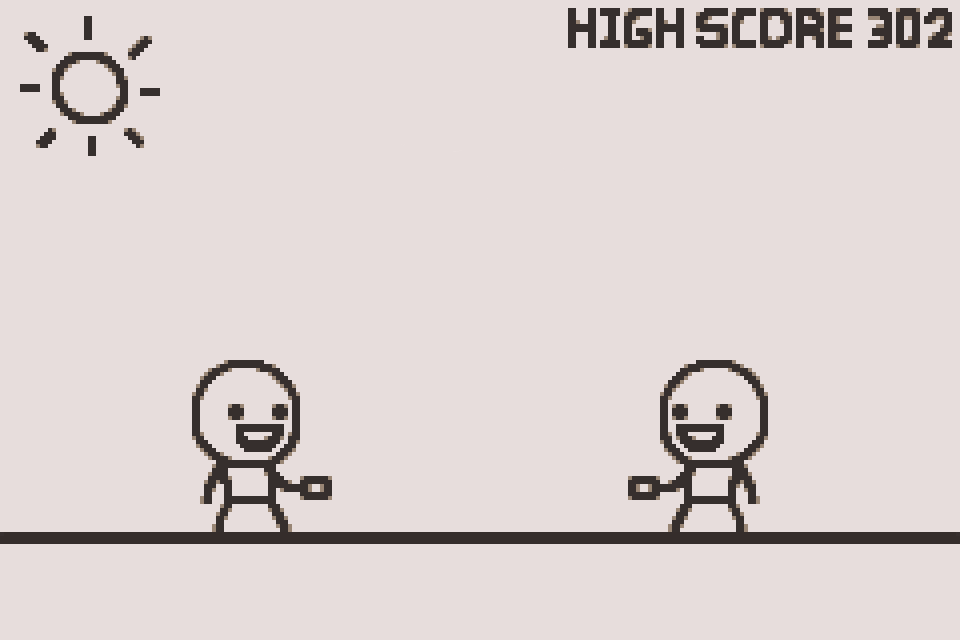
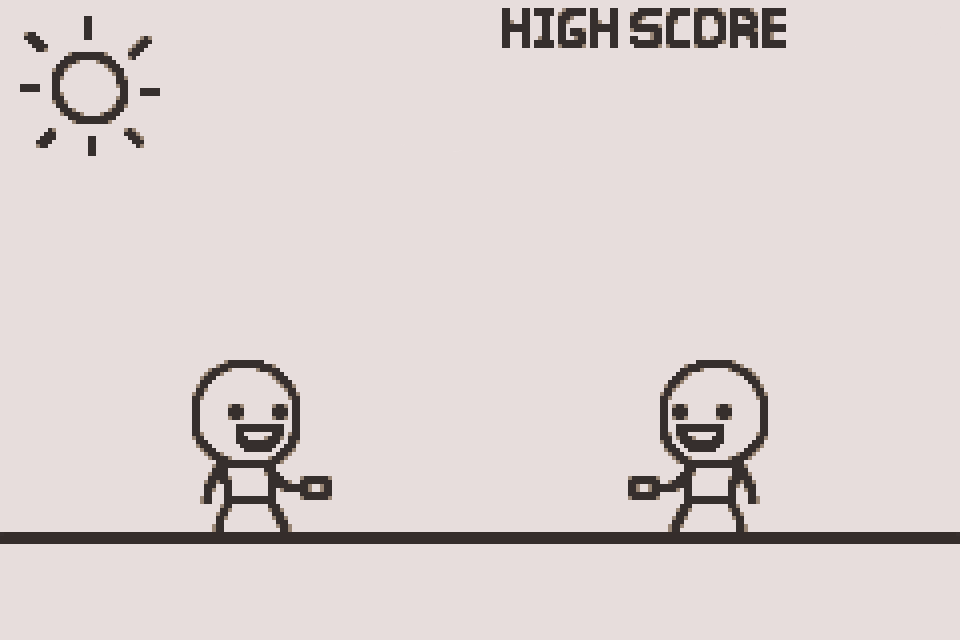
Hi scores

Changed region(s): [[0.5, 0.0, 1.0, 0.0938]]

diff --git a/jump/example1.meta.js b/jump/example1.meta.js
@@ -1,1 +1,1 @@
[2 lines of base64/hex data omitted]

diff --git a/jump/example1.js b/jump/example1.js
@@ -191,6 +191,7 @@ var example1 = function (Kotlin) {
     }, function JumpScene() {
       JumpScene.baseInitializer.call(this);
       this.ropeSpeed = 1.0;
+      this.hiScore = 0;
       this.score = 0;
       this.currentAngle = 0.0;
       this.incrAngle = 0.05;
@@ -209,8 +210,11 @@ var example1 = function (Kotlin) {
         this.player = new _.Player();
         this.player.addTo(this.stage);
         this.setScore_3p81yu$(this.score);
+        this.setHiScore_3p81yu$(this.hiScore);
       },
       resetGame: function () {
+        if (this.score > this.hiScore)
+          this.resetHiScore_za3lpa$(this.score);
         this.resetScore();
         this.resetRopeSpeed();
       },
@@ -230,6 +234,17 @@ var example1 = function (Kotlin) {
         this.scoreText.anchorCenter();
         this.scoreText.scale.set(2, 2);
         this.scoreText.addTo(this.stage);
+      },
+      setHiScore_3p81yu$: function (score) {
+        this.hiScoreText = new game.Text(score.toString(), _.JumpScene.setHiScore_3p81yu$f);
+        this.hiScoreText.position.set(800, 4);
+        this.hiScoreText.scale.set(1.8, 1.8);
+        this.hiScoreText.addTo(this.stage);
+      },
+      resetHiScore_za3lpa$: function (score) {
+        this.hiScore = score;
+        this.hiScoreText.remove();
+        this.setHiScore_3p81yu$(score);
       },
       mousedown: function (x, y) {
         this.increaseRopeSpeed();
@@ -277,6 +292,9 @@ var example1 = function (Kotlin) {
       }
     }, /** @lends _.JumpScene */ {
       setScore_3p81yu$f: function () {
+        var font = 'Arial';
+      },
+      setHiScore_3p81yu$f: function () {
         var font = 'Arial';
       }
     }),

diff --git a/jump/index.html b/jump/index.html
@@ -2,7 +2,7 @@
 <html>
 <head>
     <meta charset="utf-8">
-    <title>Panda.js HTML5 game engine</title>
+    <title>Koala HTML5 game engine</title>
 	
     <script type="text/javascript" src="src/engine/core.js"></script>
     <script type="text/javascript" src="src/game/config.js"></script>
